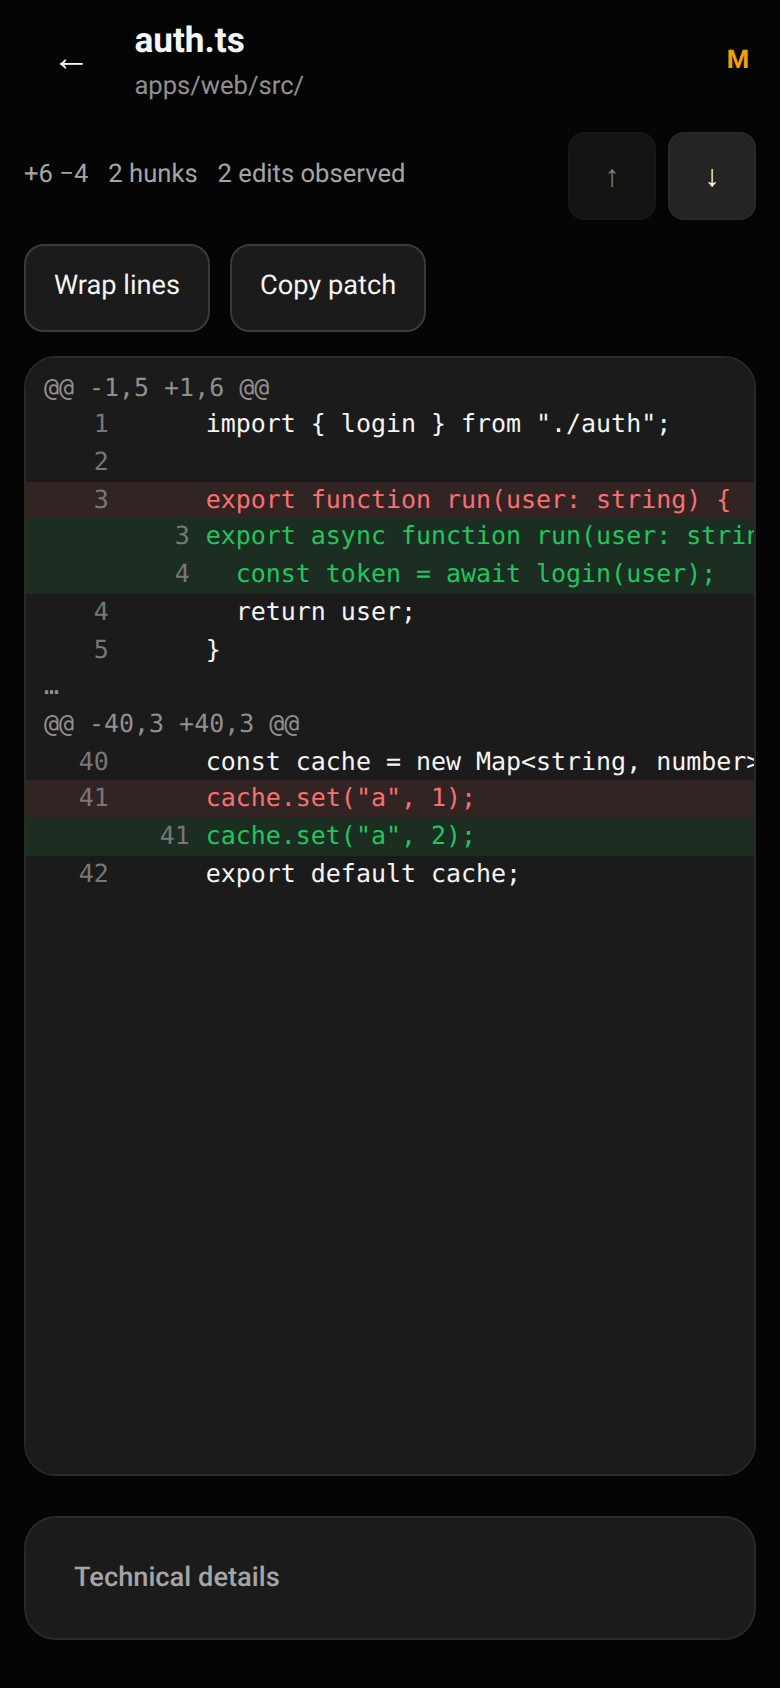
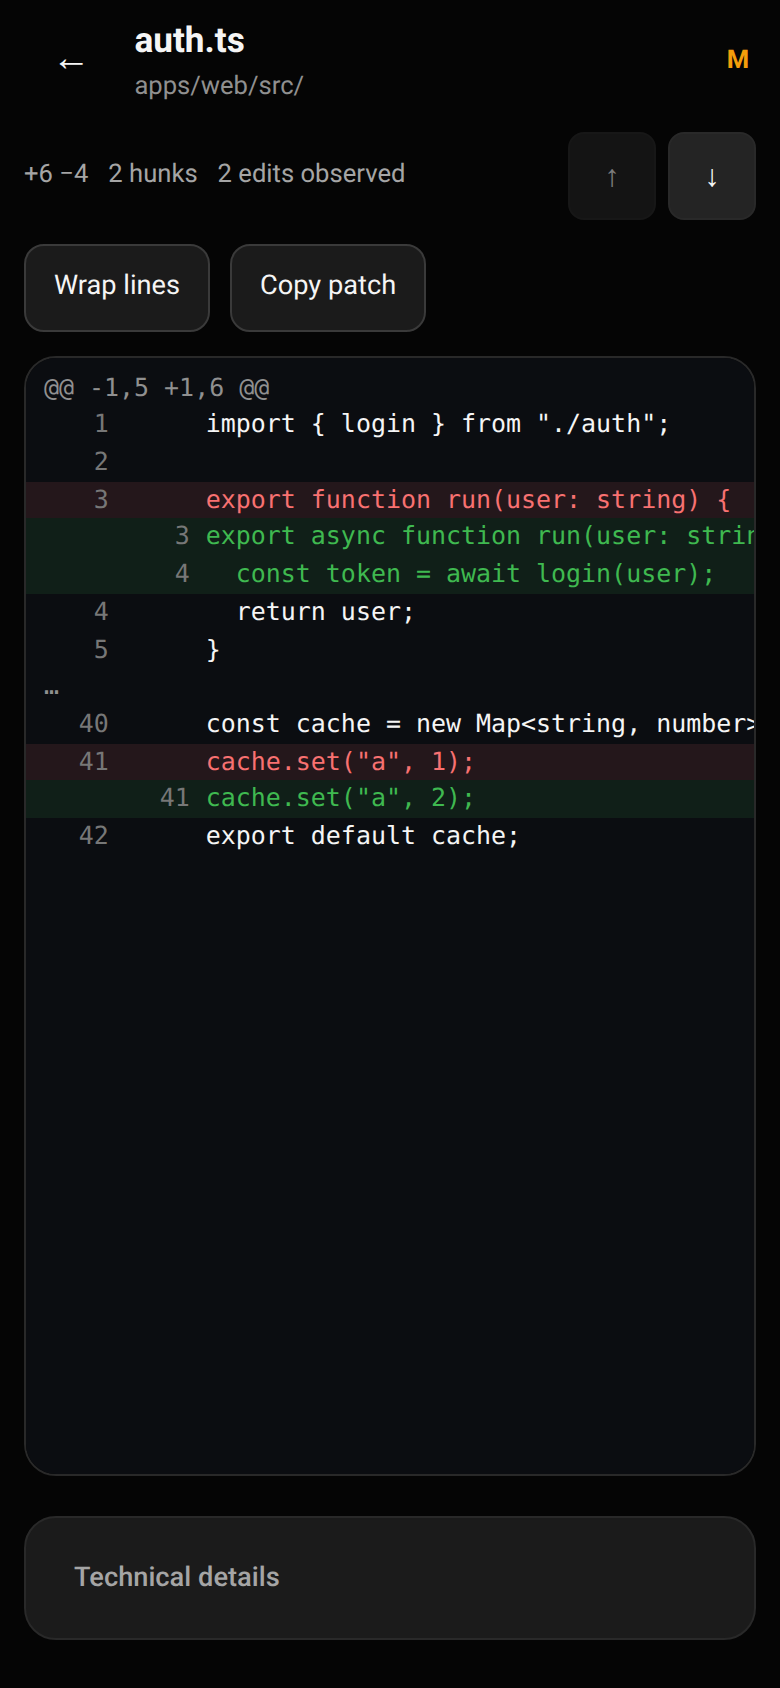
fix(web): declare the diff theme once, and give markdown tables a header
Two screens rendered the same diff semantics in two different greens, because
the `--tv-*` bridge and the diff row text colour were each declared twice:

- `--tv-*` was declared at `:root` in `styles.css` and redeclared on
  `.files-layer` in `files.css`. The copies disagreed: `--tv-ok` was `#3fb950`
  in the root bridge and `var(--success)` (#22c55e) in the `.files-layer` copy,
  so the same added-line wash tinted differently per surface.
- The add/del glyph colour was likewise declared twice, scoped to `.tool-row`
  and to `.files-layer`. Measured on the built app, the conversation reported
  rgb(34, 197, 94) for added glyphs while the Files Center reported
  rgb(63, 185, 80).

Both are now declared once at `:root`, the one scope every guest surface sits
under, so a second copy cannot drift again.

Measured after: both surfaces report rgb(63, 185, 80) for add and
rgb(248, 113, 113) for del.

Also give markdown table headers a fill and rows a subtle striping inside
`.markdown-table-scroll`; table borders and overflow behaviour are unchanged.

The Files Center e2e colour helper now reads `color` as well as
`backgroundColor`, and pins the add/del glyph colours so this drift cannot
return silently. Two round55 screenshots refreshed.

Changed region(s): [[0.0308, 0.4005, 0.9846, 0.5237]]

diff --git a/apps/web/src/styles.css b/apps/web/src/styles.css
@@ -830,6 +830,16 @@ textarea::placeholder {
   text-align: left;
 }
 
+.markdown-table-scroll th {
+  background-color: var(--surface-secondary);
+  font-weight: 600;
+  color: var(--text-primary);
+}
+
+.markdown-table-scroll tbody tr:nth-child(even) td {
+  background-color: rgba(255, 255, 255, 0.03);
+}
+
 .markdown-code-block {
   min-width: 0;
 }
@@ -1494,15 +1504,17 @@ details[open] summary {
   font-size: 0.8rem;
 }
 
-/* The guest design system's host-token bridge. The scope is `.tool-row`, not
-   `.tv-card`: the web bundle never emits `.tv-card` (only the standalone guest's
-   `ToolView` does, and `apps/web` deliberately does not import it), so a
-   `.tv-card` bridge matched nothing here and every `--tv-*` consumer resolved to
-   the empty value. A tool row is the single container wrapping both guest
-   surfaces — `Summary` in `.tool-row-head` and `Body` in `.tool-body`, which
-   holds `DiffBlock` — so the tokens reach both. Without them the guest falls back
-   to its own oklch palette, which happens to be dark-on-dark against this theme. */
-.tool-row {
+/* The guest design system's host-token bridge. The scope is `:root`, not
+   `.tv-card` and not `.tool-row`: the web bundle never emits `.tv-card` (only the
+   standalone guest's `ToolView` does, and `apps/web` deliberately does not import
+   it), so a `.tv-card` bridge matched nothing here and every `--tv-*` consumer
+   resolved to the empty value. `:root` is the one scope both the conversation
+   tool rows (`Summary` in `.tool-row-head`, `Body` in `.tool-body` holding
+   `DiffBlock`) and the Files Center diff viewer sit under, so a single
+   declaration reaches every guest surface and cannot drift between them.
+   Without them the guest falls back to its own oklch palette, which happens to
+   be dark-on-dark against this theme. */
+:root {
   --tv-fg: var(--text);
   --tv-muted: var(--text-muted);
   --tv-faint: var(--text-muted);
@@ -1519,10 +1531,12 @@ details[open] summary {
 
 /* Added and deleted lines must read as green/red text, not only as a wash of
    tint: the guest default mixes its accent 70% toward `--tv-fg`, which lands pale
-   enough to lose the signal. Scoped to the production chain (`.tool-row` →
-   `.tool-body`) and left off the hunk rows, which keep their own muted colour. */
-.tool-row .tv-diff-row--add { color: #3fb950; }
-.tool-row .tv-diff-row--del { color: var(--danger-text); }
+   enough to lose the signal. Declared once, unscoped, for the same reason the
+   `--tv-*` bridge is: the conversation tool rows and the Files Center diff viewer
+   are both production guest surfaces, and a second scoped copy is how the two came
+   to disagree. The hunk rows stay out of it and keep their own muted colour. */
+.tv-diff-row--add { color: #3fb950; }
+.tv-diff-row--del { color: var(--danger-text); }
 
 .tool-body .tv-head { min-height: var(--touch-min); }
 .tool-body .tv-expand { min-height: var(--touch-min); }

diff --git a/tests/e2e/files-center.spec.ts b/tests/e2e/files-center.spec.ts
@@ -172,9 +172,9 @@ async function openFilesLayerFromCard(page: Page): Promise<{ cardText: string; c
 /** Where the visual-verification captures land (Phase 10 keeps a PNG per screen). */
 const CAPTURES = join(homedir(), ".cache", "caw-screens");
 
-/** Computed background colour of the first row matching a selector, as `rgb(...)`. */
-async function rowBackground(page: Page, selector: string): Promise<string> {
-  return page.locator(selector).first().evaluate((element) => getComputedStyle(element).backgroundColor);
+/** Computed value of one CSS property on the first row matching a selector, as the browser reports it. */
+async function rowCss(page: Page, selector: string, property: "backgroundColor" | "color"): Promise<string> {
+  return page.locator(selector).first().evaluate((element, prop) => getComputedStyle(element)[prop], property);
 }
 
 test.beforeEach(async ({ request }) => {
@@ -230,13 +230,22 @@ test("tapping a file shows its diff with add/del row backgrounds distinct from c
   await expect(page.locator(".tv-diff-row--add").first()).toBeVisible();
   await expect(page.locator(".tv-diff-row--del").first()).toBeVisible();
 
-  const [add, del, ctx] = await Promise.all([
-    rowBackground(page, ".tv-diff-row--add"),
-    rowBackground(page, ".tv-diff-row--del"),
-    rowBackground(page, ".files-diff-row:not(.tv-diff-row--add):not(.tv-diff-row--del):not(.tv-diff-row--hunk):not(.tv-diff-row--gap)"),
+  const [add, del, ctx, addColor, delColor, ctxColor] = await Promise.all([
+    rowCss(page, ".tv-diff-row--add", "backgroundColor"),
+    rowCss(page, ".tv-diff-row--del", "backgroundColor"),
+    rowCss(page, ".files-diff-row:not(.tv-diff-row--add):not(.tv-diff-row--del):not(.tv-diff-row--hunk):not(.tv-diff-row--gap)", "backgroundColor"),
+    rowCss(page, ".tv-diff-row--add", "color"),
+    rowCss(page, ".tv-diff-row--del", "color"),
+    rowCss(page, ".files-diff-row:not(.tv-diff-row--add):not(.tv-diff-row--del):not(.tv-diff-row--hunk):not(.tv-diff-row--gap)", "color"),
   ]);
-  const colours = { add, del, ctx };
+  const colours = { add, del, ctx, addColor, delColor, ctxColor };
   console.log("[files-center diff colours]", JSON.stringify(colours));
+
+  // The glyph colour is the same single declaration the conversation diff rows
+  // resolve, so an added line can never be one green here and another there.
+  // `#3fb950` is the conversation's measured add colour; `--danger-text` is #f87171.
+  expect(addColor, "add glyphs must match the conversation's #3fb950").toBe("rgb(63, 185, 80)");
+  expect(delColor, "del glyphs must match the conversation's --danger-text").toBe("rgb(248, 113, 113)");
 
   // Measured, not eyeballed. A context row carries no tint by design, so it may be
   // transparent; what must hold is that both signals actually PAINT and that no two

diff --git a/apps/web/src/files.css b/apps/web/src/files.css
@@ -2,10 +2,9 @@
    File name for the main agent's import: apps/web/src/files.css.
 
    Everything here comes from the design tokens in `styles.css`; no raw hex is
-   used for a diff row. The `--tv-*` bridge is redeclared below on purpose: the
-   app's own bridge in `styles.css` is scoped to `.tool-row`, which this layer is
-   not, so without it every `var(--tv-ok)`/`var(--tv-err)` inside a diff row would
-   resolve to nothing and the added/deleted washes would disappear. */
+   used for a diff row. The `--tv-*` bridge now lives once at `:root` in
+   `styles.css`, the scope both the conversation tool rows and this layer sit
+   under, so both surfaces inherit one identical set of values. */
 
 .files-layer {
   position: fixed;
@@ -16,19 +15,6 @@
   flex-direction: column;
   min-height: 0;
   overflow: hidden;
-
-  --tv-fg: var(--text-primary);
-  --tv-muted: var(--text-secondary);
-  --tv-faint: var(--text-muted);
-  --tv-accent: var(--primary);
-  --tv-ok: var(--success);
-  --tv-err: var(--danger-text);
-  --tv-warn: var(--warning);
-  --tv-border: var(--border-subtle);
-  --tv-inset: var(--surface-primary);
-  --tv-raised: var(--surface-secondary);
-  --tv-ring: var(--primary);
-  --tv-mono: var(--font-mono);
 }
 
 .files-center,
@@ -326,12 +312,6 @@ button.files-diff-nav button {
 .files-diff-scroll--wrap {
   overflow-x: hidden;
 }
-
-/* Added/deleted must read as green/red TEXT, not only as a tint: the guest
-   default mixes its accent 70% toward `--tv-fg`, which lands pale enough to lose
-   the signal on this dark inset. */
-.files-layer .tv-diff-row--add { color: var(--success); }
-.files-layer .tv-diff-row--del { color: var(--danger-text); }
 
 .files-show-all {
   display: block;
